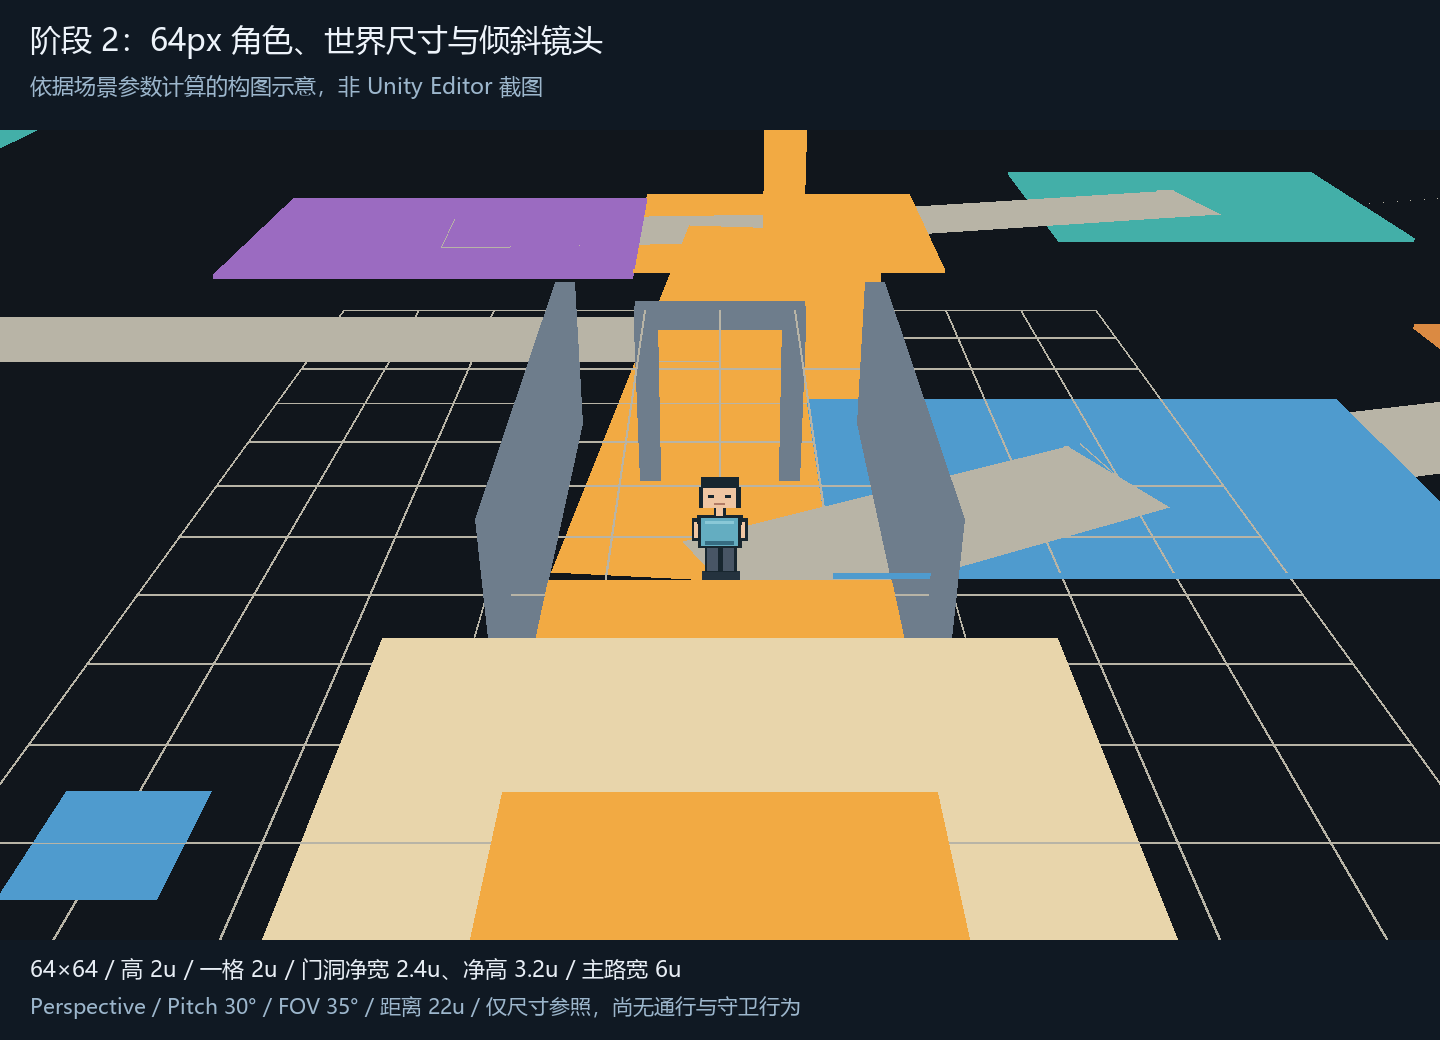
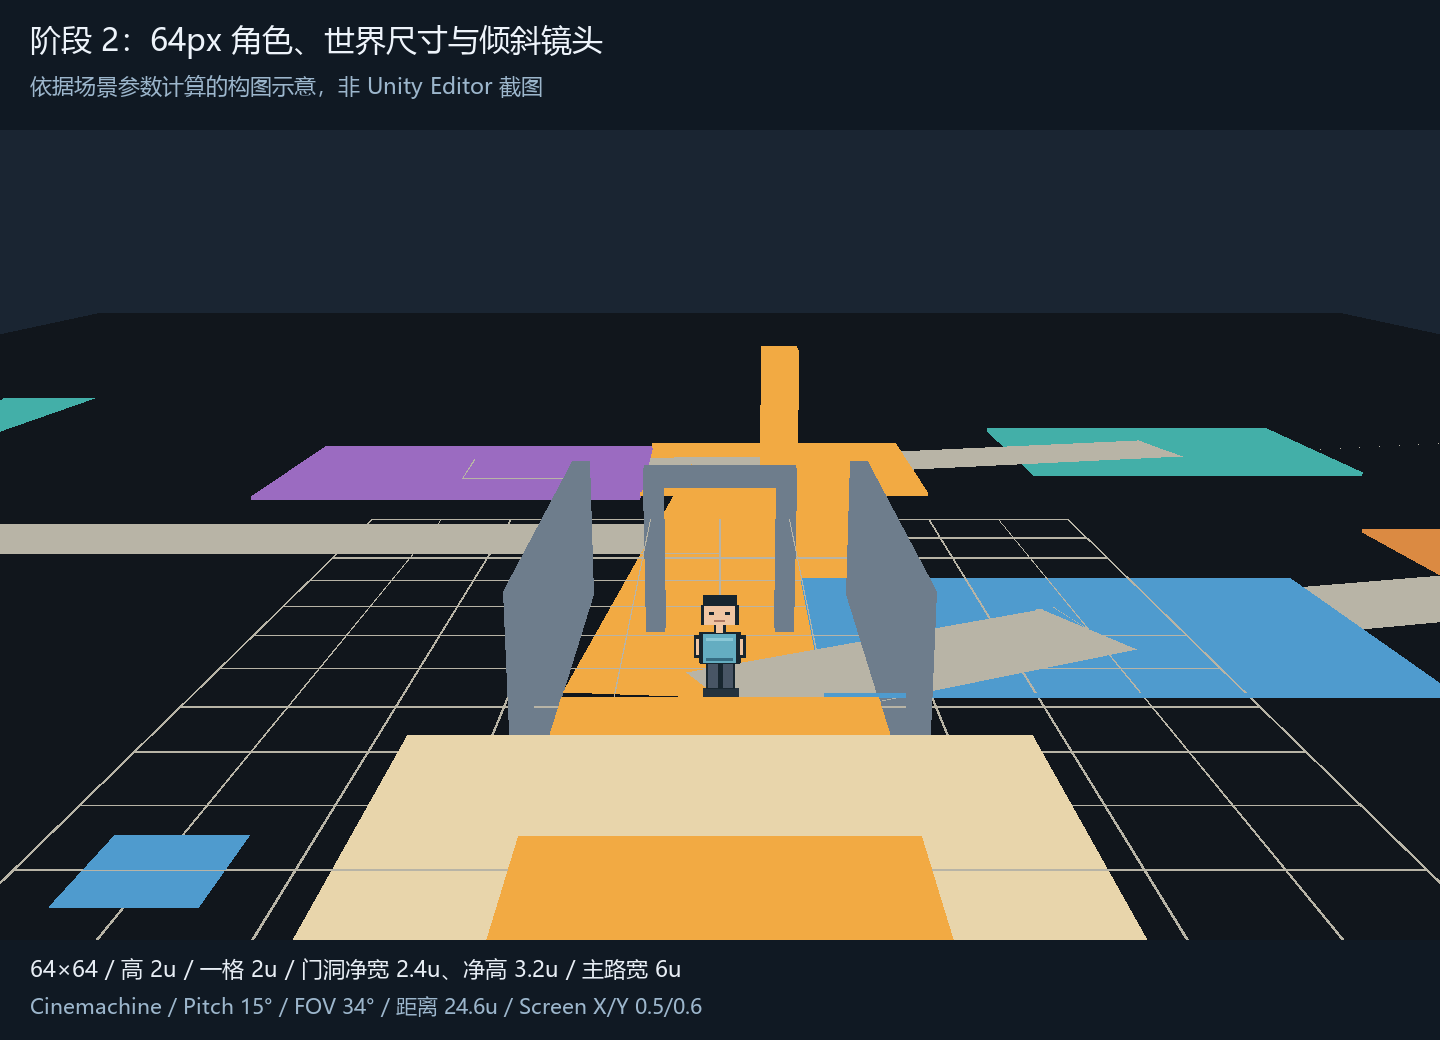
docs: update stage 2 camera parameters and preview

diff --git a/docs/cave-stealth-stage2-scale-camera.md b/docs/cave-stealth-stage2-scale-camera.md
@@ -50,27 +50,34 @@ Prefab 不带 PlayerEntity、输入、移动或动画。本阶段只复用已有
 
 ## 3. 倾斜镜头
 
-主镜头为 `HD2D Camera`，使用已有 `CameraController`，Inspector 中明确引用占位角色的根节点。
+相机采用原 `CaveHD2DLocal` 场景的 Cinemachine 2.10.7 方案：`HD2D Camera` 上使用 Cinemachine Brain，由 `CaveExplorationCamera` 跟随占位角色根节点。Body 为 Framing Transposer，Aim 为 Do Nothing。将原方案约 `12.09°` 的俯角改为 **15°**，其余跟随与构图参数沿用原方案。
 
 | 参数 | 值 |
 | --- | --- |
 | Projection | Perspective |
-| Pitch / `viewAngle` | 30° |
-| Yaw / `yawAngle` | 0° |
-| 垂直 FOV | 35° |
-| 到焦点的距离 | 22 |
-| `focusOffset` | `(0,0.9,0)` |
-| Damping | 8 |
-| Near / Far | 0.1 / 250 |
+| Virtual Camera Pitch | 15° |
+| Yaw | 0° |
+| 垂直 FOV | 34° |
+| Framing Transposer Camera Distance | 24.6，沿相机前向轴计算 |
+| Follow | `PixelPerson64Placeholder` 根节点 |
+| Tracked Object Offset | `(0,1.6,0)` |
+| Screen X / Y | `0.5 / 0.6` |
+| X / Y / Z Damping | `0.25 / 0.25 / 0.25` |
+| Dead Zone Width / Height / Depth | `0.05 / 0.05 / 0` |
+| Soft Zone Width / Height | `0.8 / 0.8` |
+| Brain Update / Blend Update | Late Update |
+| Near / Far | 0.1 / 200 |
 | 后处理、相机 MSAA | 关闭 |
 | 默认角色位置 | `(0,0.03,-25.5)` |
-| 默认相机位置 | 约 `(0,11.93,-44.55)` |
+| 默认相机位置 | 约 `(0,9.45,-48.87)`，按站定构图计算并保存 |
 
-`CameraController.LateUpdate()` 根据角色位置、focusOffset、倾角与距离更新相机；`SpriteBillboard.LateUpdate()` 只让 Visual 跟随相机 yaw。根节点不因 Billboard 倾斜，后续碰撞体可保持竖直。
+Framing Transposer 根据 Follow、Tracked Object Offset、Camera Distance、Screen X/Y 与跟随区域调整相机位置；Do Nothing 保持 Virtual Camera 的 15° 朝向；Brain 把 Virtual Camera 的状态应用到实际相机。`SpriteBillboard.LateUpdate()` 只让 Visual 跟随相机 yaw。根节点不因 Billboard 倾斜，后续碰撞体可保持竖直。
+
+原方案的 `Center On Activate`、`Target Movement Only`、Priority 等设置也一并沿用。旧 `CameraController` 已从本场景的主相机移除，避免两个组件同时驱动相机。Framing Transposer 只改变位置、不负责旋转，并可用于透视相机与 3D 环境。[Cinemachine 2.10 Framing Transposer 文档](https://docs.unity3d.com/Packages/com.unity.cinemachine@2.10/manual/CinemachineBodyFramingTransposer.html)
 
 Perspective 保留近大远小，FOV 控制观察角度。这组参数先平衡地面可见面积、人物厚度和前方目标占屏关系。[Unity 2022.3 Camera 文档](https://docs.unity3d.com/2022.3/Documentation/Manual/class-Camera.html)
 
-按场景投影计算，默认位置的 2 单位人物在 1440×810 画面中约高 102 屏幕像素；在同宽高比的 1920×1080 画面中约高 135 像素。结果仅用于初步判断，实际清晰度还受 Unity 渲染和 Game View 显示缩放影响，未进行运行时测量。
+按站定构图的投影计算，默认位置的 2 单位人物在 1440×810 画面中约高 101 屏幕像素；在同宽高比的 1920×1080 画面中约高 135 像素。Screen Y `0.6` 对应 Cinemachine 从屏幕顶部起算的目标构图位置；本次计算参照本地 Package 中 `ScreenToOrtho` 的坐标换算。结果仅用于初步判断，运行时位置还受 Dead Zone、Soft Zone 和 Damping 影响，未进行运行时测量。
 
 `09_ViewpointAnchors` 保存四个检查位置和对应的 CameraPose：入口 `(0,0.03,-25.5)`、供给桥前 `(-30,0.03,19)`、军营外缘 `(35,0.03,3)`、大厅正面 `(-2,0.03,26.5)`。运行时可把角色根节点移到这些位置，检查同一组镜头参数在不同区域的构图。
 
